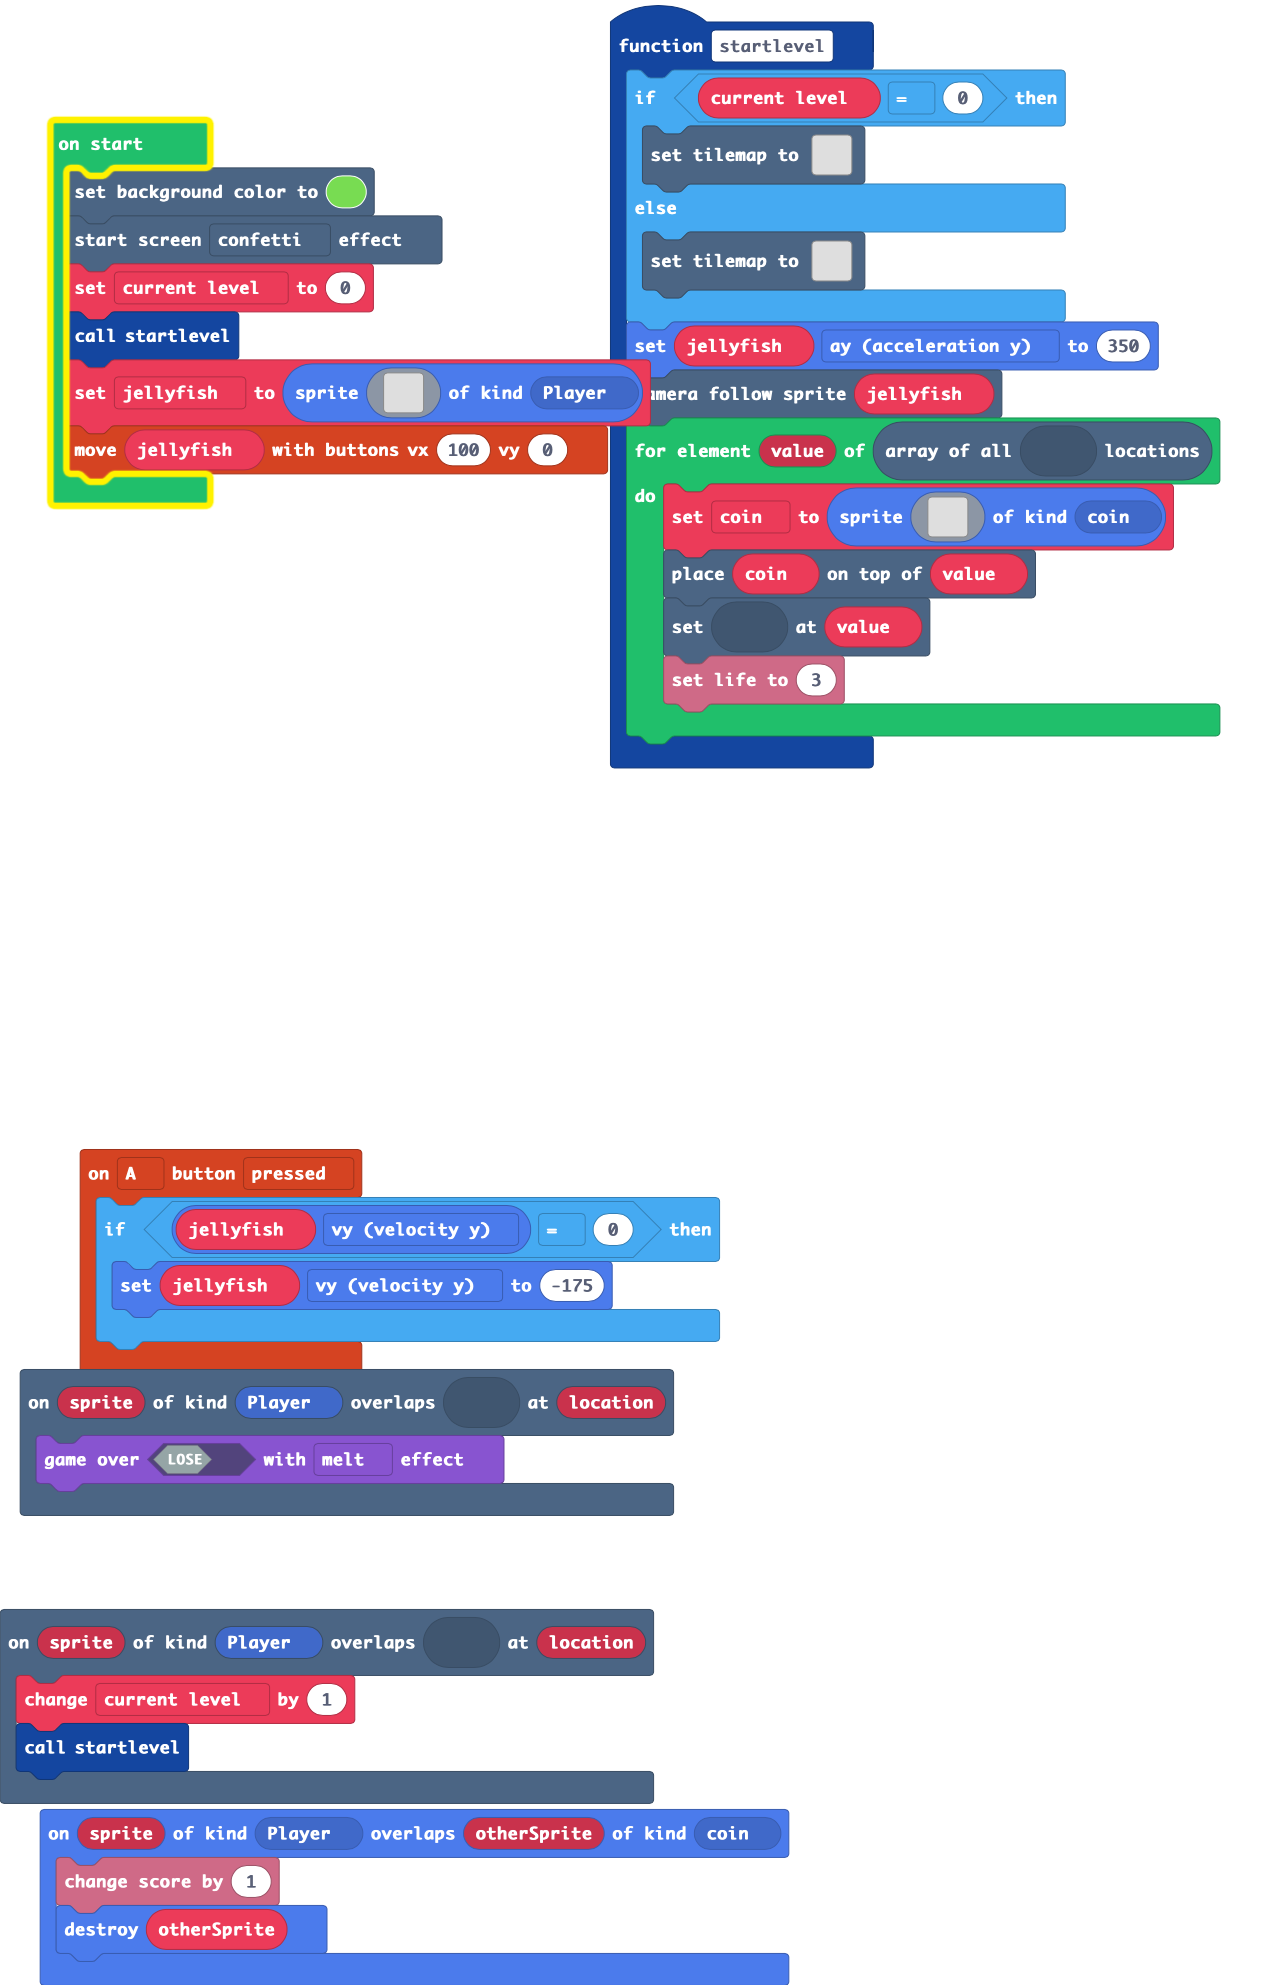
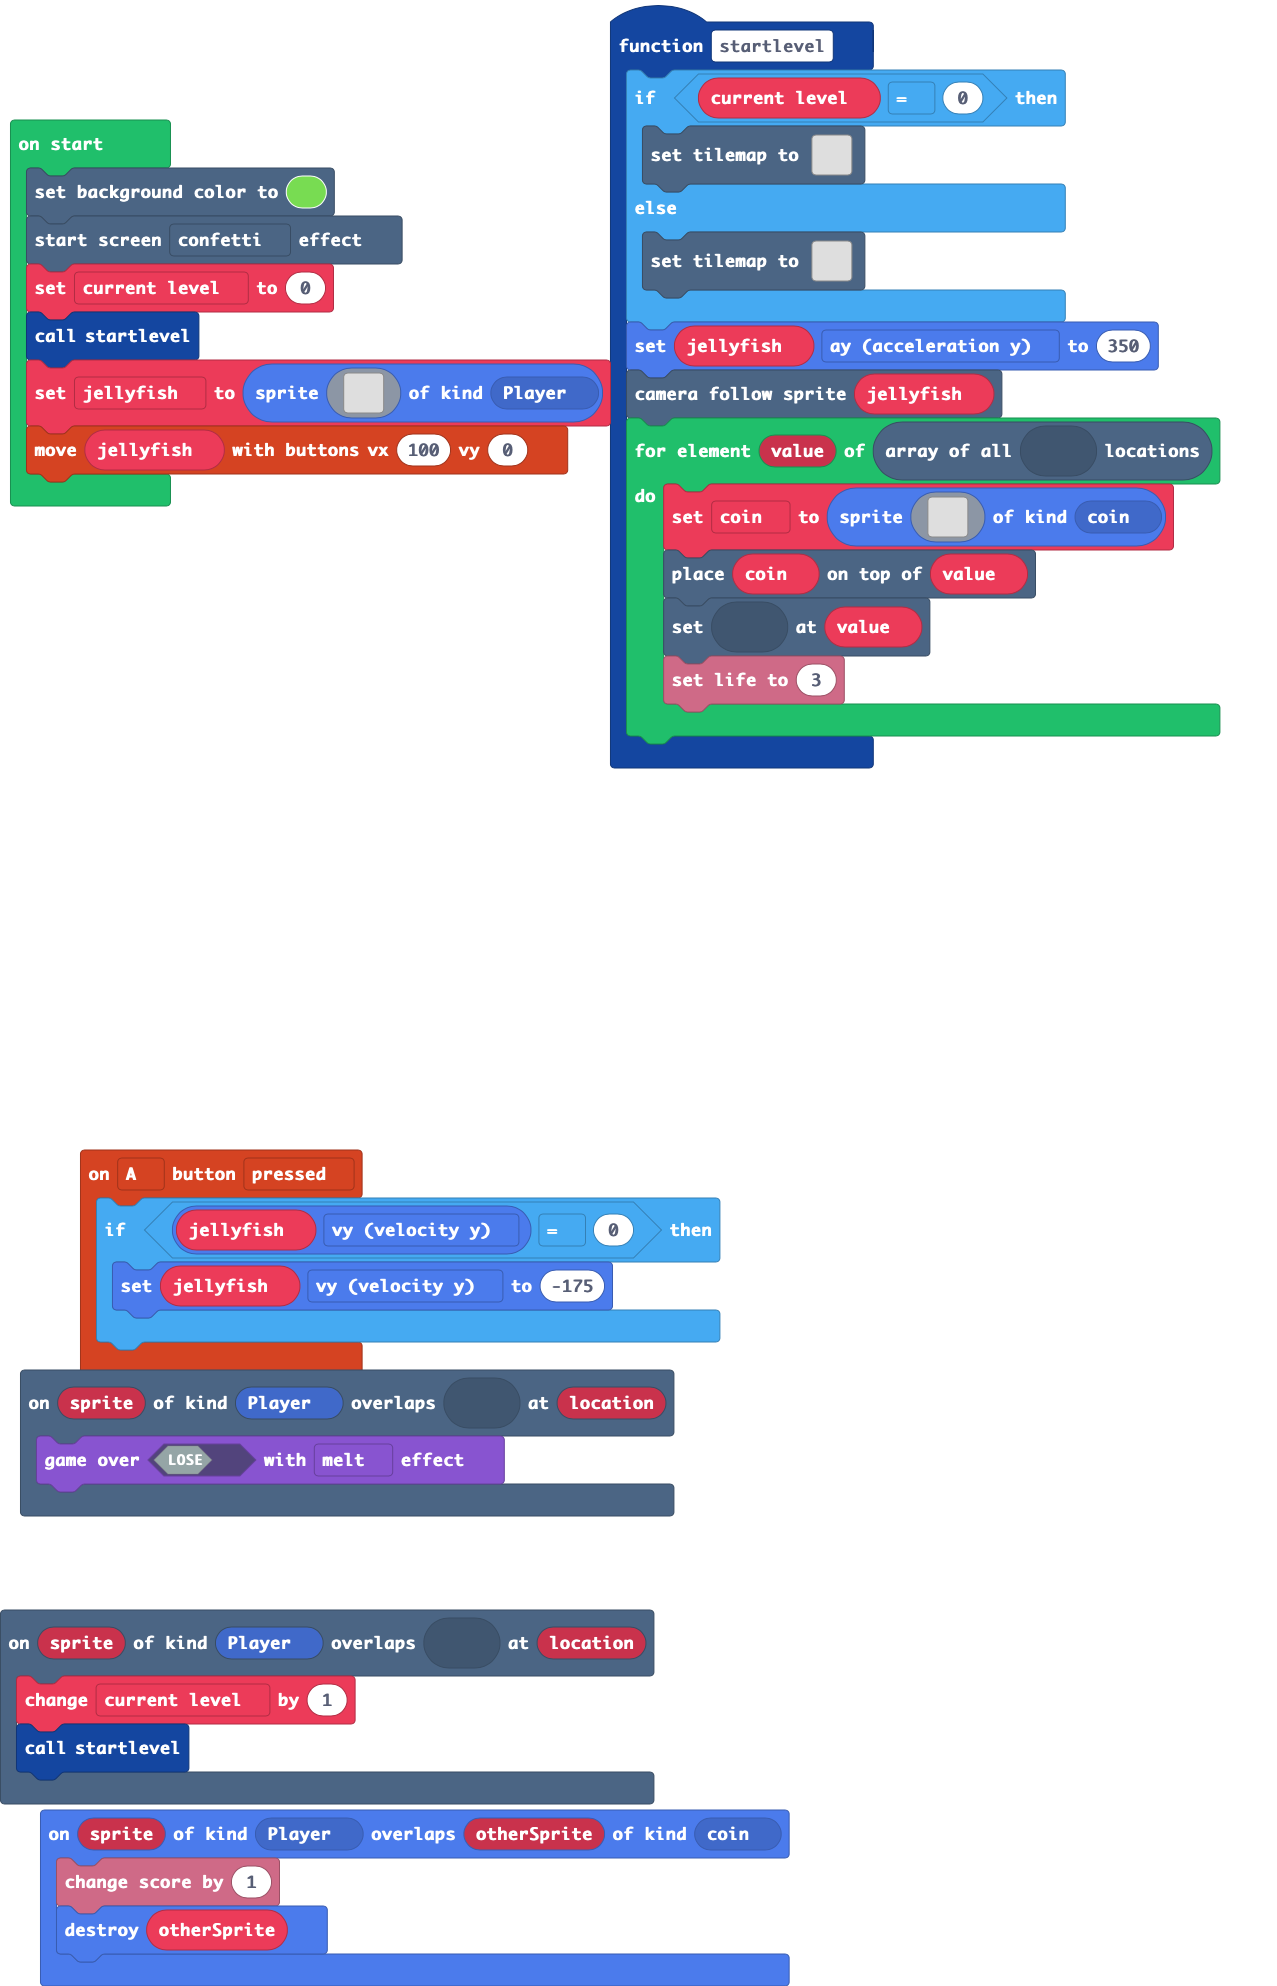
current version

diff --git a/tilemap.g.ts b/tilemap.g.ts
@@ -9,5 +9,51 @@ namespace myTiles {
     //% fixedInstance jres blockIdentity=images._tile
     export const tile3 = image.ofBuffer(hex``);
 
+    helpers.registerTilemapFactory(function(name: string) {
+        switch(helpers.stringTrim(name)) {
+            case "level": return tiles.createTilemap(hex`5000140000000000000000000000000000000000000000000000000000000000000000000000000000000000000000000000000000000000000000000000000000000000000000000000000000000000000000000000000000000000000000000000000000000000000000000000000000000000000000000000000000000000000000000000000000000000000000000000000000000000000000000000000000000000000000000000000000000000000000000000000000000000000000000000000000000000000000000000000000000000000000000000000000000000000000000000000000000000000000000000000000000000000000000000000000000000000000000000000000000000000000000000000000000000000000000000000000000000000000000000000000000000000000000000000000000000000000000000000000000000040000000000000000000000000000000000000000000000000000040000000000000000000000000000000000000000000000000000000000000000000000000000000000000000010101010101010101000000000000000000000000000000040000000000000000000101010000000000000000000000000000000000000000000000000000000000000000000000000000000000000000000000000000000000000000000000000000000000010001000100000000000000000000000000000000000000000000000000000000000000000000000000000000000003000000000000000000000000000000000000000000000000000000000001010000000000000000000001010000000000000000000000000000000000000000000000000000000000000001010101010100000000000000000000000000000000000000000000000000000001000000000000000000010101000000000000000000000000000000000000000000000000000000000000000001000000000000000000000000000000000000000000000000000000000000040001010000000000000000000000000000000000000000000000000000040000000000000000000000000000000001000000000000000000000000000000000000000000000000000000000000000001000000000000000000000000000000000000000000000000000000000001000000000000000000000000040001000000000000000000000000000000000000000000000000000000000000000101010000000000000000000000000000000000000000000000000000000000000000000000000000000000000001000000000000000000000000000000000000000000000000000000000000000000000000000000000000000000000000000000000000000000000000000101010100000000000000000000000001000000000000000000000000000000000000000000000000000000000000000000000000000000000000000000000000000000000000000000000000000000000000000000000000000000000001000000000000000000000000000000000000000000000000000000000000000000000000000000000000000000000000000000000000000000000000000000000000000000000000000000000001000000000000000000000000000000000000000000000000000000000000000000000000000000000000000000000000000000000000000000000000000000000000000000000000000000010101000000000000000000000000000000000000000000000000000000000000000000000000000000000000000000000000000000000000000000000000000000000000000000000000000000000000000000000000000000000000000000000000000000000000000000000000000000000000000000000000000000000000000000000000000000000000000000000000000000000000000000000000000000000000000000000000000000000000000000000000000000000000000000000000000000000000000000000000000000000000000000000000000000000000000000000000000000000000000000000000000000000000000000000000000000000000000000000000000000000000000202020202020202020202020202020202020202020202020202020202020202020202020202020202020202020202020202020202020202020202020202020202020202020202020202020202020202`, img`
+................................................................................
+................................................................................
+................................................................................
+................................................................................
+................................................................................
+222222222.........................222...........................................
+......................2.2.2.....................................................
+...................22..........22...............................222222..........
+.................2.........222................................2.................
+...............22...........................................2...................
+.............2.............................2..............2.....................
+..........222...........................................2.......................
+......................................2222............2.........................
+....................................................2...........................
+..................................................2.............................
+..............................................222...............................
+................................................................................
+................................................................................
+................................................................................
+................................................................................
+`, [myTiles.transparency16,sprites.castle.rock2,myTiles.tile1,myTiles.tile2,myTiles.tile3], TileScale.Sixteen)
+            case "level_0": return tiles.createTilemap(hex`320010000000000000000000000000000000000000000000000000000000000000000000000000000000000000000000000000000000000000000000000000000000000000000000000000000000000000000000000000000000000000000000000000000000000000000000000000000000000000000004000000000000000000000000000000000000000000000000000000000000000000000000000000000000000000000300000000000000000000000000000000000000000000000000000000000000000000000000000000000000000000000404040400000000000000000000000000000000000000000000000000000000000000000000000000000000000000030000000000000004000404040400000000000300000000000000000000000000000000000000000000000404040404040404000000000003000000000000000000000000040000000000000000000000020000000000000000000000000000000000000000000000040400000000000000000000000000000000000000000004040404000000000000000000000000000000000000000000000000000000000000000000040404000000000000000003000000000000000000000000000000000000000000000000000404000000000000000000000000000000000000000000040404000000000000000000000000000000000000000000000000000000000000000000000000000000000000000000000000000000000000000000000000000000000000000000000000000000000000000000000000000000000000000000000404040000000000000000000000000000000000000000000000000000000000000000000000000000000000000000000000000000000000000000000000000000000000000000000000000000000000000000000000000000000000000000000000000000000000000000000000000000000000000000000000000000000000000000000000000000000000000000000000000000000000000000000000000000000000000000000000000101010101010101010101010101010101010101010101010101010101010101010101010101010101010101010101010101`, img`
+..................................................
+..................................................
+...............2..................................
+..................................................
+..........2222....................................
+...............2.2222.............................
+22222222..................2.......................
+............22.....................2222...........
+......................222.........................
+.........22.....................222...............
+..................................................
+.............................222..................
+..................................................
+..................................................
+..................................................
+..................................................
+`, [myTiles.transparency16,myTiles.tile1,myTiles.tile2,myTiles.tile3,sprites.castle.rock2], TileScale.Sixteen)
+        }
+        return null;
+    })
+
 }
 // Auto-generated code. Do not edit.

diff --git a/main.ts b/main.ts
@@ -36,10 +36,10 @@ function startlevel () {
             ................................................................................
             ................................................................................
             ................................................................................
-            22222222222222222222222222222222222222222222222222222222222222222222222222222222
+            ................................................................................
             `, [myTiles.transparency16,sprites.castle.rock2,myTiles.tile1,myTiles.tile2,myTiles.tile3], TileScale.Sixteen))
     } else {
-        tiles.setTilemap(tiles.createTilemap(hex`320010000000000000000000000000000000000000000000000000000000000000000000000000000000000000000000000000000000000000000000000000000000000000000000000000000000000000000000000000000000000000000000000000000000000000000000000000000000000000000004000000000000000000000000000000000000000000000000000000000000000000000000000000000000000000000300000000000000000000000000000000000000000000000000000000000000000000000000000000000000000000000404040400000000000000000000000000000000000000000000000000000000000000000000000000000000000000030000000000000004000404040400000000000300000000000000000000000000000000000000000000000404040404040404000000000003000000000000000000000000040000000000000000000000020000000000000000000000000000000000000000000000040400000000000000000000000000000000000000000004040404000000000000000000000000000000000000000000000000000000000000000000040404000000000000000003000000000000000000000000000000000000000000000000000404000000000000000000000000000000000000000000040404000000000000000000000000000000000000000000000000000000000000000000000000000000000000000000000000000000000000000000000000000000000000000000000000000000000000000000000000000000000000000000000404040000000000000000000000000000000000000000000000000000000000000000000000000000000000000000000000000000000000000000000000000000000000000000000000000000000000000000000000000000000000000000000000000000000000000000000000000000000000000000000000000000000000000000000000000000000000000000000000000000000000000000000000000000000000000000000000000101010101010101010101010101010101010101010101010101010101010101010101010101010100000000000000000000`, img`
+        tiles.setTilemap(tiles.createTilemap(hex`320010000000000000000000000000000000000000000000000000000000000000000000000000000000000000000000000000000000000000000000000000000000000000000000000000000000000000000000000000000000000000000000000000000000000000000000000000000000000000000004000000000000000000000000000000000000000000000000000000000000000000000000000000000000000000000300000000000000000000000000000000000000000000000000000000000000000000000000000000000000000000000404040400000000000000000000000000000000000000000000000000000000000000000000000000000000000000030000000000000004000404040400000000000300000000000000000000000000000000000000000000000404040404040404000000000003000000000000000000000000040000000000000000000000020000000000000000000000000000000000000000000000040400000000000000000000000000000000000000000004040404000000000000000000000000000000000000000000000000000000000000000000040404000000000000000003000000000000000000000000000000000000000000000000000404000000000000000000000000000000000000000000040404000000000000000000000000000000000000000000000000000000000000000000000000000000000000000000000000000000000000000000000000000000000000000000000000000000000000000000000000000000000000000000000404040000000000000000000000000000000000000000000000000000000000000000000000000000000000000000000000000000000000000000000000000000000000000000000000000000000000000000000000000000000000000000000000000000000000000000000000000000000000000000000000000000000000000000000000000000000000000000000000000000000000000000000000000000000000000000000000000101010101010101010101010101010101010101010101010101010101010101010101010101010101010101010101010101`, img`
             ..................................................
             ..................................................
             ...............2..................................
